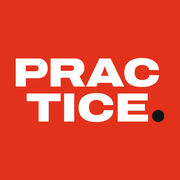
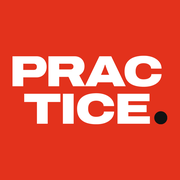
Icona: scritta più grande (circa +10%), allineata alle app gemelle

diff --git a/sw.js b/sw.js
@@ -1,6 +1,6 @@
 /* PRACTICE · service worker: tiene una copia dell'app sul telefono, così si apre anche senza rete.
    I dati non passano da qui: li gestisce la pagina. Quando cambia l'app, alzare VERSION. */
-const VERSION="practice-v6";
+const VERSION="practice-v7";
 const CORE=["./","index.html","store.js","iniziale.js","manifest.webmanifest","icons/apple-touch-icon.png","icons/icon-192.png","icons/icon-512.png","icons/icon-maskable-512.png"];
 
 self.addEventListener("install",e=>{e.waitUntil(caches.open(VERSION).then(c=>c.addAll(CORE)).then(()=>self.skipWaiting()));});
